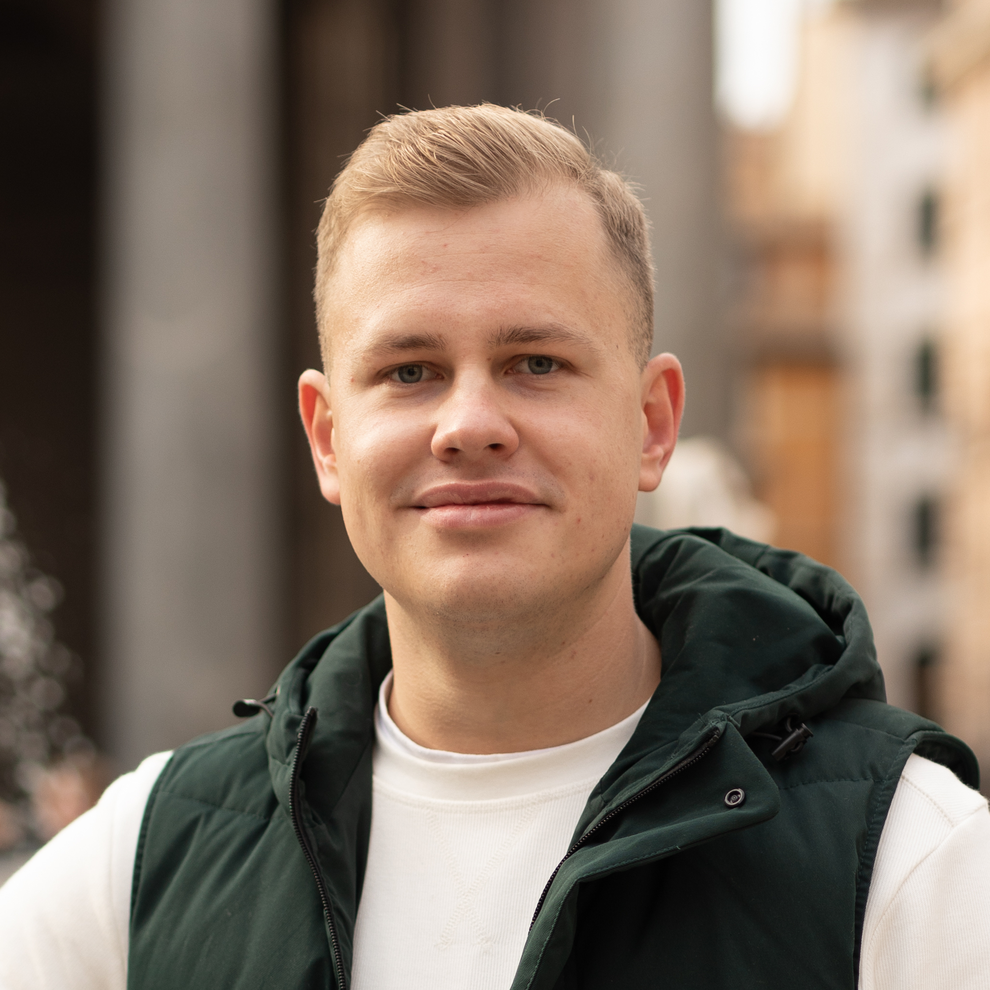
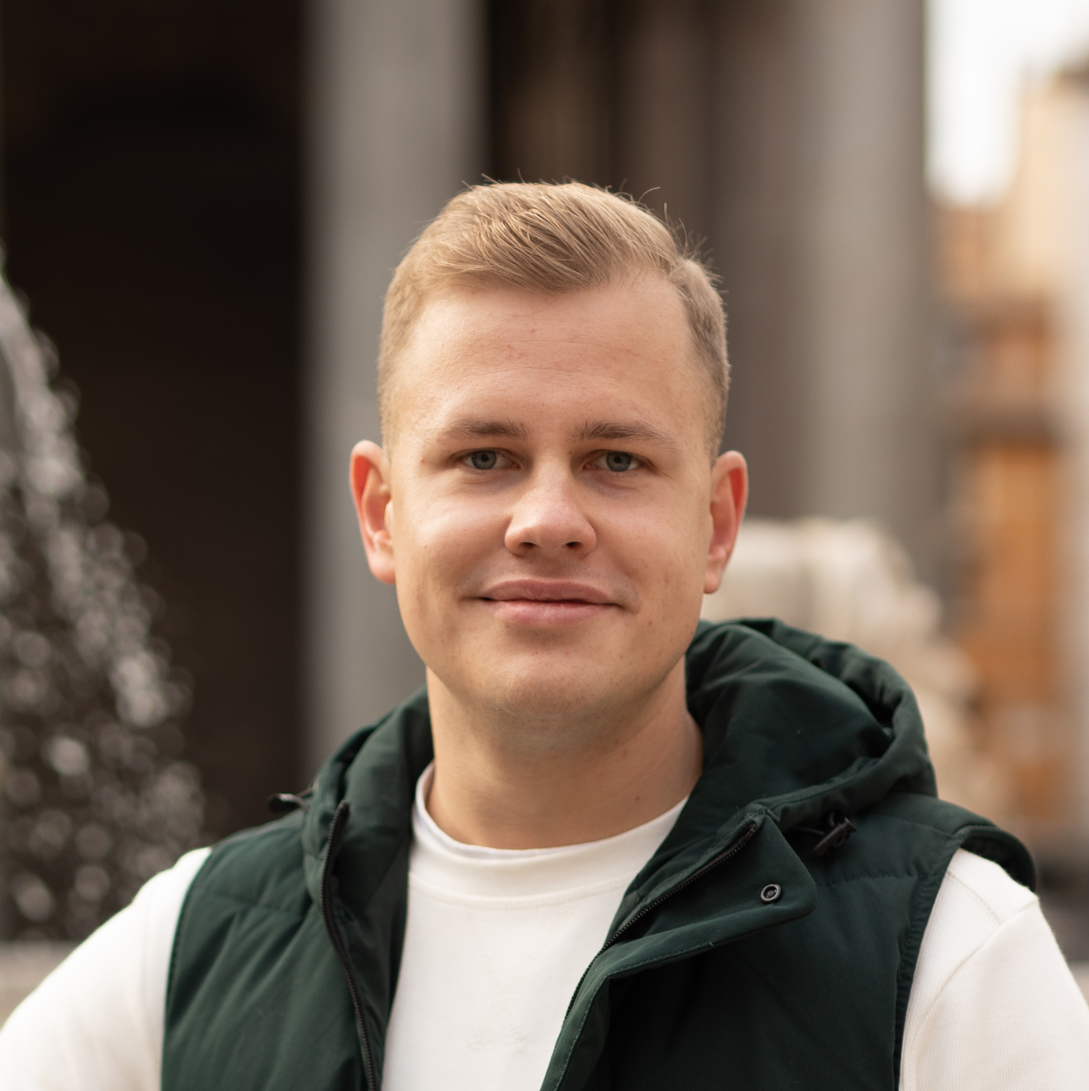
[FEAT] Modal responsive.

diff --git a/css/modal.css b/css/modal.css
@@ -18,8 +18,8 @@
 .modal-content {
     margin: auto;
     display: block;
-    width: 80%;
-    max-width: 800px;
+    width: 60%;
+    height: auto;
 }
 
 /* Caption of Modal Image */

diff --git a/css/styles.css b/css/styles.css
@@ -11360,7 +11360,7 @@ button:focus {
 @media (min-width: 1400px) {
   .img-fluid-profile-photo {
     margin-bottom: 10px;
-    width: 15%;
+    width: 17%;
   }
 }
 
